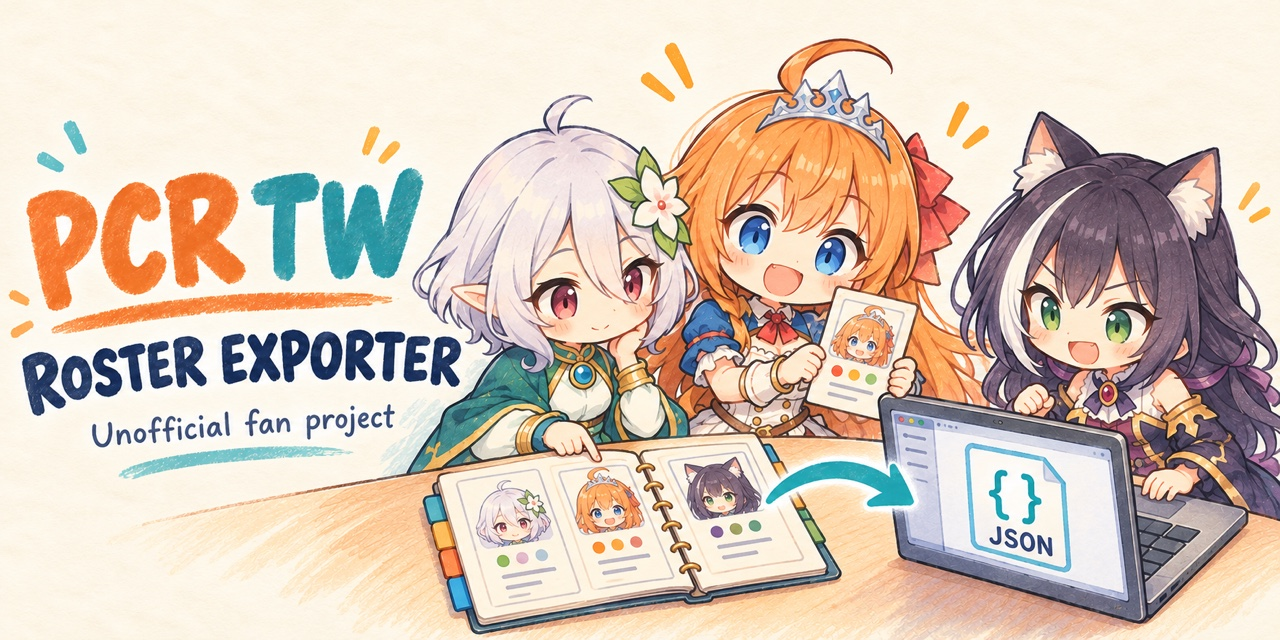
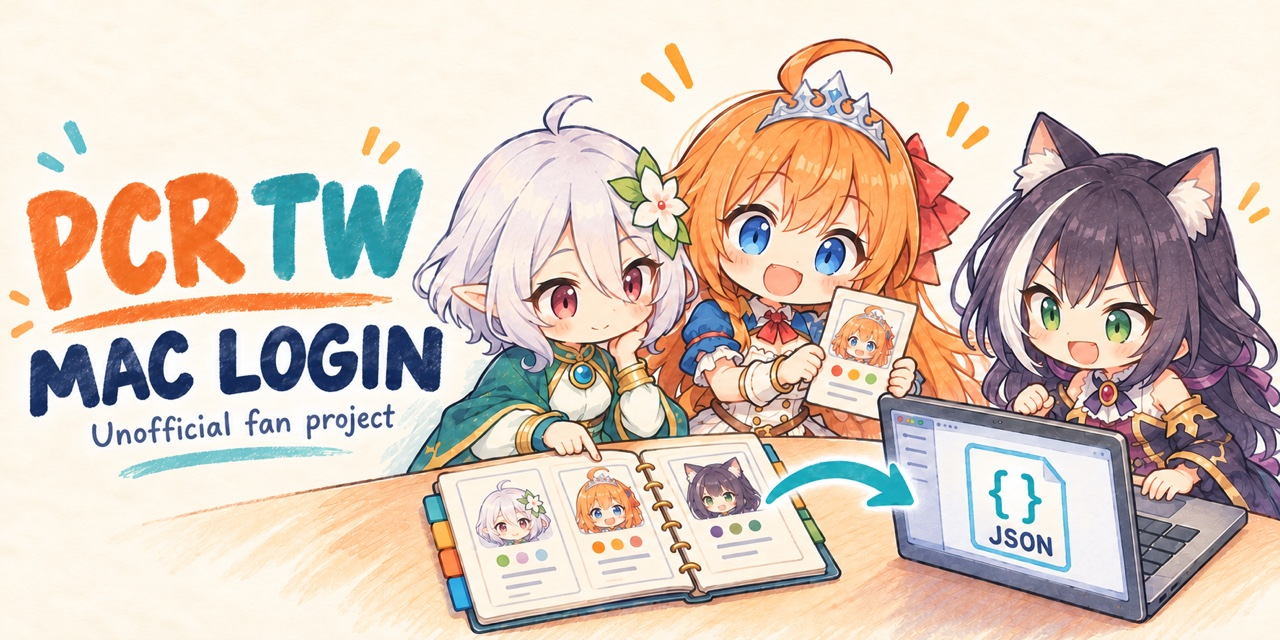
Align cover title with Mac login repository

diff --git a/tools/check_public_tree.py b/tools/check_public_tree.py
@@ -12,7 +12,7 @@ EXPECTED = {
     'docs/publication.md', 'docs/upstream-license-audit.json', 'docs/code-provenance.md',
     'examples/roster.synthetic.json', 'tools/check_public_tree.py',
 }
[2 lines of base64/hex data omitted]
 
 PATTERNS = {
     'personal_absolute_path': re.compile('/' + r'(?:Users|home)/[^\s/]+/'),

diff --git a/assets/README.md b/assets/README.md
@@ -2,10 +2,12 @@
 
 `social-preview.jpg`：1280 × 640，供 README 與 GitHub Social preview 使用。2026-10-18 由使用者確認選用。
 
-封面描述角色池匯出範例；圖中文字 PCR TW / ROSTER EXPORTER 不代表 repo 已提供可執行匯出工具。目前專案名稱與公開範圍以主 README 為準。
+封面描述角色池匯出範例；圖中文字 PCR TW / MAC LOGIN 對應 repo 名稱；角色名冊與 JSON 保留為登入後的匯出範例，不代表 repo 已提供可執行匯出工具。目前專案名稱與公開範圍以主 README 為準。
 
 本圖以內建圖片生成工具製作，未使用官方圖檔作為輸入；以先前生成的預覽圖進行修改。角色為《超異域公主連結☆Re:Dive》的佩可莉姆、可可蘿、凱留，相關角色權利屬各權利人。本圖非官方素材，亦不表示取得官方認可或授權；不納入本 repo 的 Apache-2.0 授權範圍。
 
 生成提示摘要：2:1 分享封面、暖白紙張、色鉛筆與水彩 Q 版三人；角色名冊三張卡片經箭頭匯出到筆電 JSON；完整頭部留白、凱留白色髮束、保留英文標題、不使用官方 Logo。
 
 GitHub 分享卡需另外於 repository Settings → General → Social preview 上傳此檔；README 引用不會自動設定該欄位。
+
+本次文字修訂：使用內建圖片生成工具，提示僅將 ROSTER EXPORTER 改為 MAC LOGIN，保留其餘角色、構圖、配色與文字。

diff --git a/README.md b/README.md
@@ -4,8 +4,6 @@
 
 ![角色池匯出範例：三位角色整理名冊並匯出 JSON](assets/social-preview.jpg)
 
-<sub>角色池匯出範例主視覺 · 非官方 AI 輔助二創，素材說明見 [封面說明](assets/README.md)。</sub>
-
 ### 在 Mac 上取得台版公主連結的登入資料
 
 **在 Apple Silicon Mac 上，透過 BlueStacks Air 取出台版《超異域公主連結☆Re:Dive》的登入資料，並用它從 Mac 登入官方 API。**
@@ -173,3 +171,5 @@ BlueStacks Air 的 root 映像
 <sub>實驗與審查紀錄：[方法與實驗結果](docs/experiment.md) · [上游授權與檔案判定](docs/licensing.md) · [程式來源分析](docs/code-provenance.md) · [公開範圍](docs/publication.md)</sub><br/>
 <sub>本 repo 的文件、圖表、合成範例與檢查腳本以 [Apache License 2.0](LICENSE) 授權；不涵蓋上游專案的程式碼。</sub><br/>
 <sub>非官方實驗專案，與遊戲開發商、營運商及 BlueStacks 無隸屬關係。</sub>
+
+<sub>角色池匯出範例主視覺 · 非官方 AI 輔助二創，素材說明見 [封面說明](assets/README.md)。</sub>
